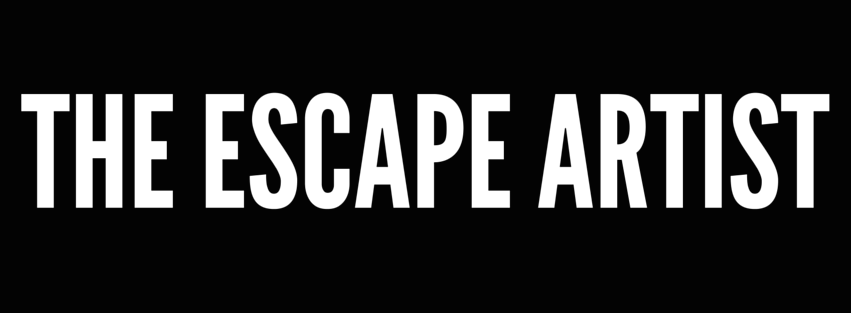
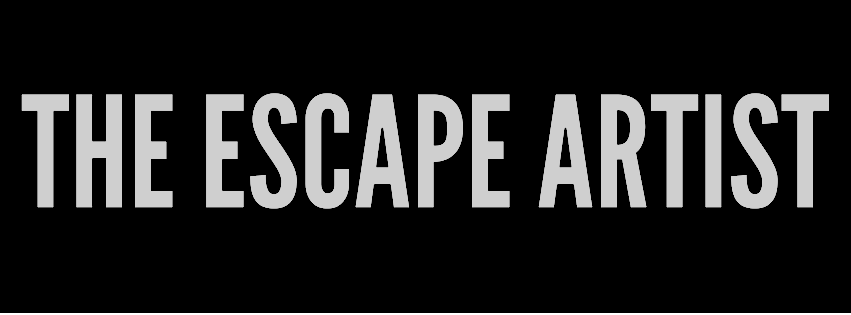
Update 13-05-2016
- Background color of banner changed to completely black
- Added a new post
- Changed head title

Changed region(s): [[0.0, 0.2857, 0.9777, 0.6857]]

diff --git a/mysite/templates/base.html b/mysite/templates/base.html
@@ -3,7 +3,7 @@
 <html>
   <head lang="en">
     <meta charset="UTF-8">
-    <title>Taskalot - Get your stuff done!</title>
+    <title>The Escape Artist</title>
     <script src="{% static 'js/jquery-2.2.3.js' %}"></script>
     <script src="{% static 'js/bootstrap.min.js' %}"></script>
     <link rel="stylesheet" href="{% static 'css/bootstrap.css' %}">
@@ -44,7 +44,7 @@
     <div class="container">
       <div class="row">
         <div class="col-md-12">
-          <img src="{% static 'img/banner.png' %}" class="img-responsive center-block"/>
+          <img style="background-color:black;" src="{% static 'img/banner.png' %}" class="img-responsive center-block"/>
         </div>
       </div>
     </div>

diff --git a/mysite/templates/about/about.html b/mysite/templates/about/about.html
@@ -6,7 +6,7 @@
 <div class="container">
   <div class="row">
     <div class="col-md-5">
-      <img src="{% static 'img/exitman.png' %}" class="img-responsive center-block"/>
+      <img style="background-color:black;" src="{% static 'img/exitman.jpg' %}" class="img-responsive center-block"/>
     </div>
     <div class="col-md-7">
       <h1> BEHIND THE SCENES: </h1>

diff --git a/mysite/mysite/settings.py b/mysite/mysite/settings.py
@@ -28,9 +28,9 @@ STATIC_PATH = os.path.join(PROJECT_PATH,'static')
 SECRET_KEY = 'zi3k)n((3o@s0o4uikj8q)cdfwtjthlby6#59sb#ljy6i(91r('
 
 # SECURITY WARNING: don't run with debug turned on in production!
-DEBUG = False
+DEBUG = True
 
-ALLOWED_HOSTS = ["theescapeartist.ca"]
+ALLOWED_HOSTS = ["www.theescapeartist.ca",""]
 
 
 # Application definition
